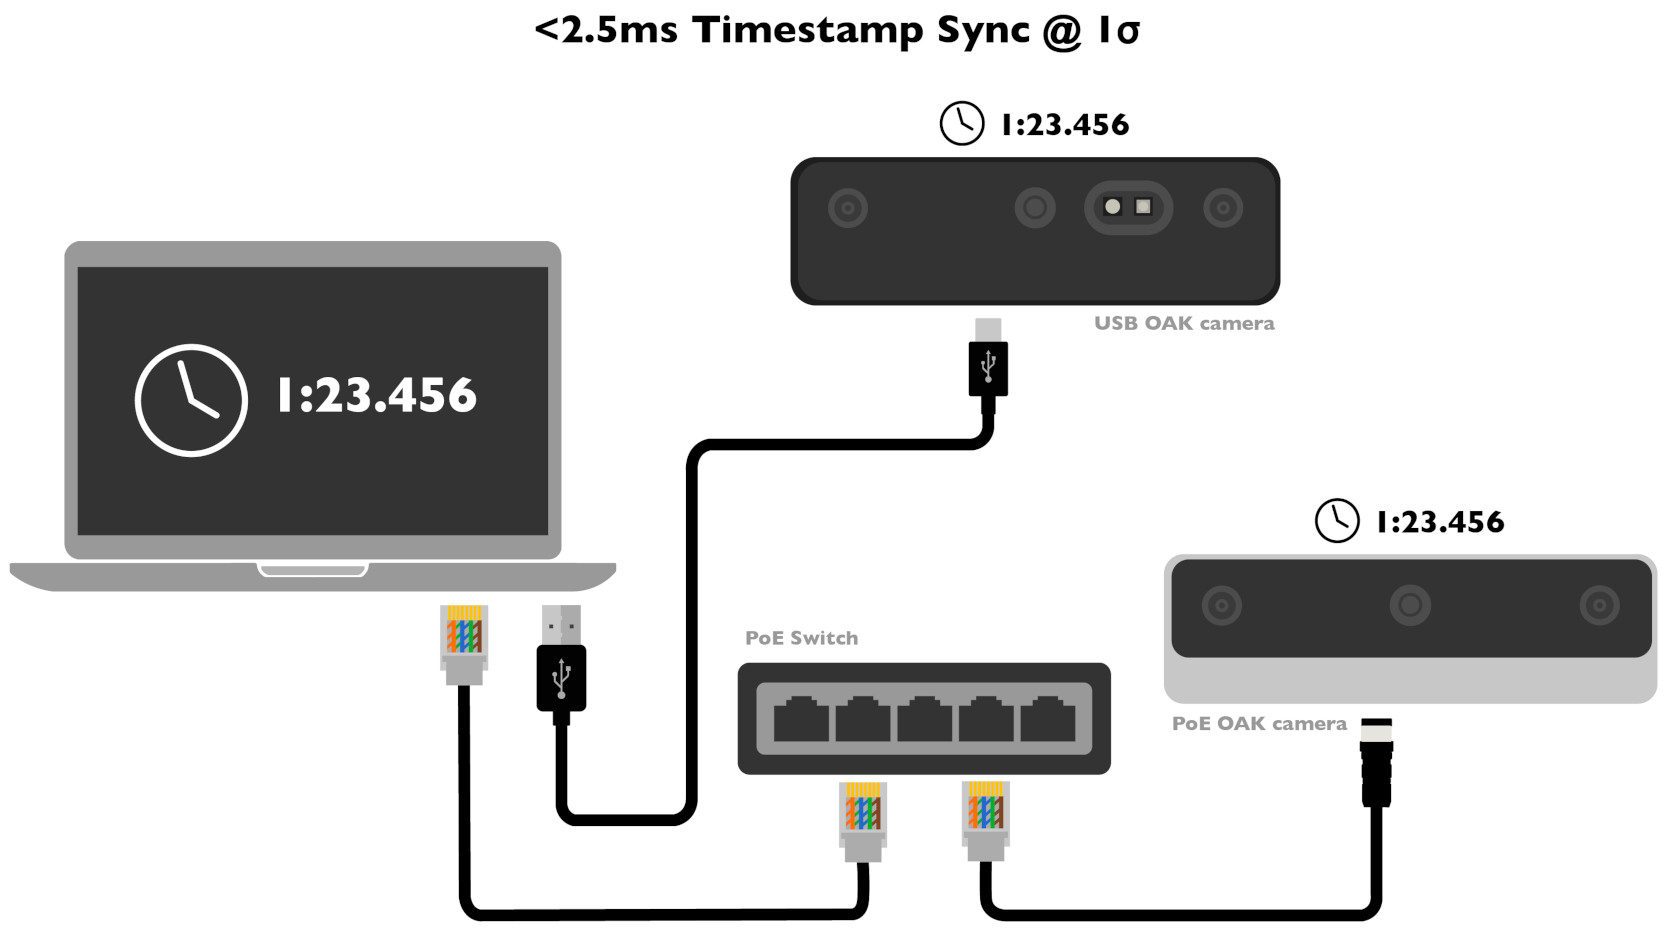
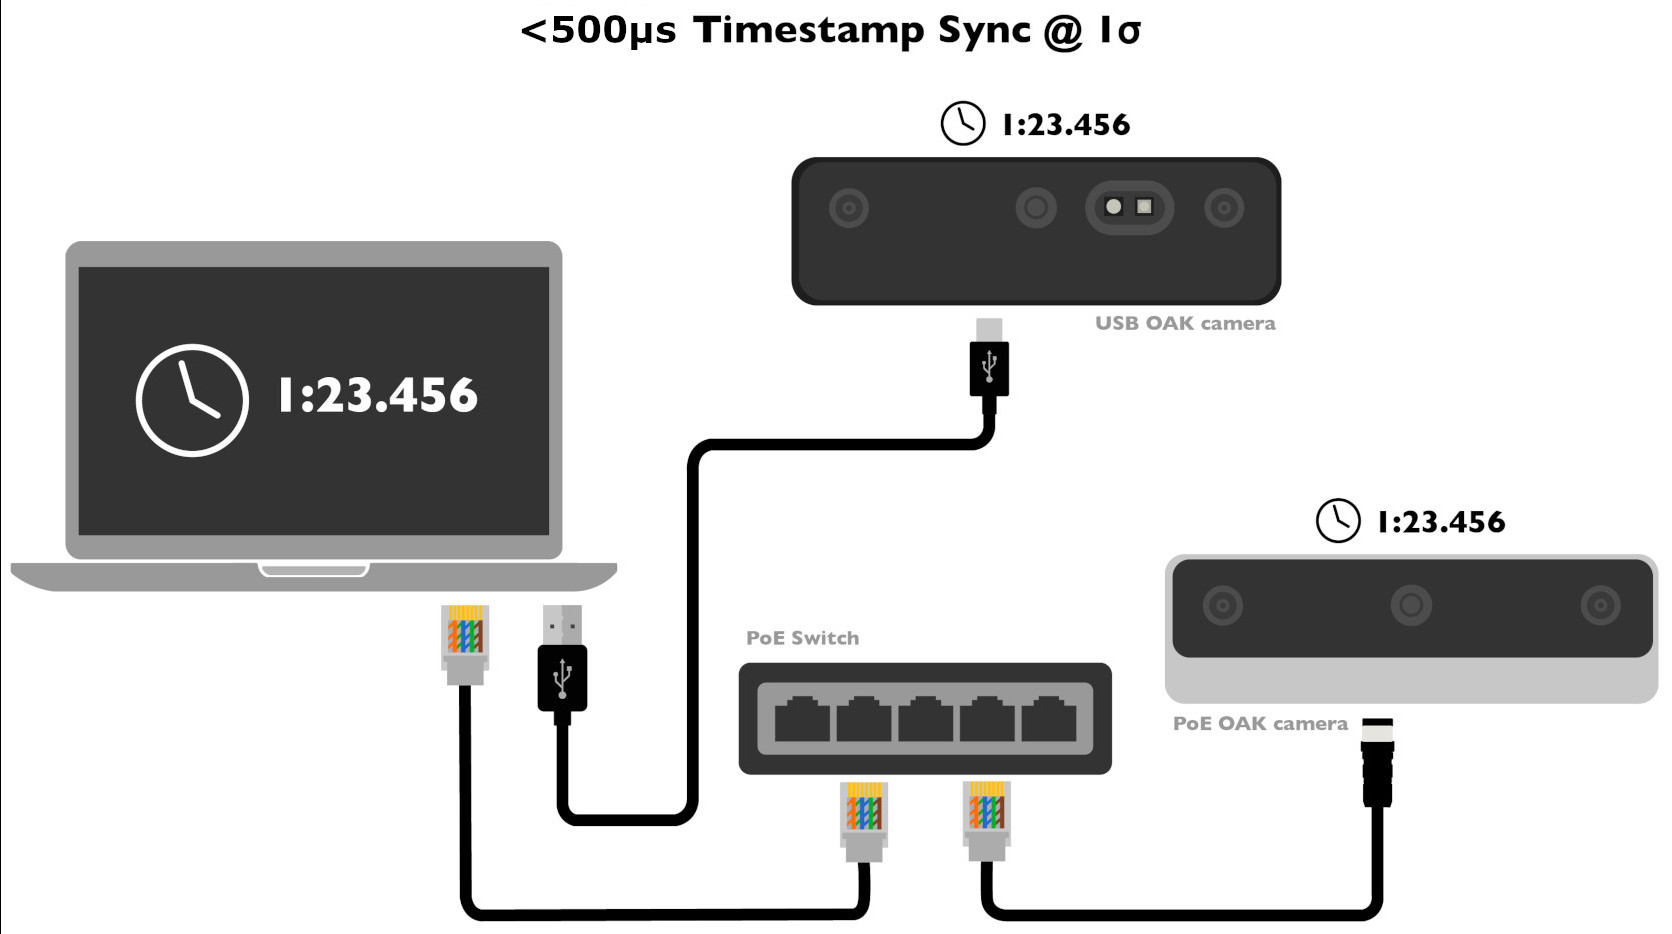
Updated clck syncing docs

diff --git a/docs/source/components/device.rst b/docs/source/components/device.rst
@@ -63,17 +63,17 @@ and can be configured via API (example script below).
 
 .. image:: /_static/images/components/device_timesync.jpg
 
-Device clocks are synced at below 2.5ms accuracy for PoE cameras, and below 1ms accuracy for USB cameras at 1σ (standard deviation) with host clock.
+Device clocks are synced at below 500µs accuracy for PoE cameras, and below 200µs accuracy for USB cameras at 1σ (standard deviation) with host clock.
 
 .. image:: /_static/images/components/clock-syncing.png
 
 A graph representing the accuracy of the device clock with respect to the host clock. We had 3 devices connected (OAK PoE cameras), all were hardware synchronized using `FSYNC Y-adapter <https://docs.luxonis.com/projects/hardware/en/latest/pages/FSYNC_Yadapter/>`__.
 Raspberry Pi (the host) had an interrupt pin connected to the FSYNC line, so at the start of each frame the interrupt happened and the host clock was recorded. Then we compared frame (synced) timestamps with
-host timestamps and computed the standard deviation. For the histogram above we ran this test for about 7 hours.
+host timestamps and computed the standard deviation. For the histogram above we ran this test for about 3 hours.
 
 .. code-block:: python
 
-    # Configure host clock syncing exmaple
+    # Configure host clock syncing example
 
     import depthai as dai
     from datetime import timedelta
